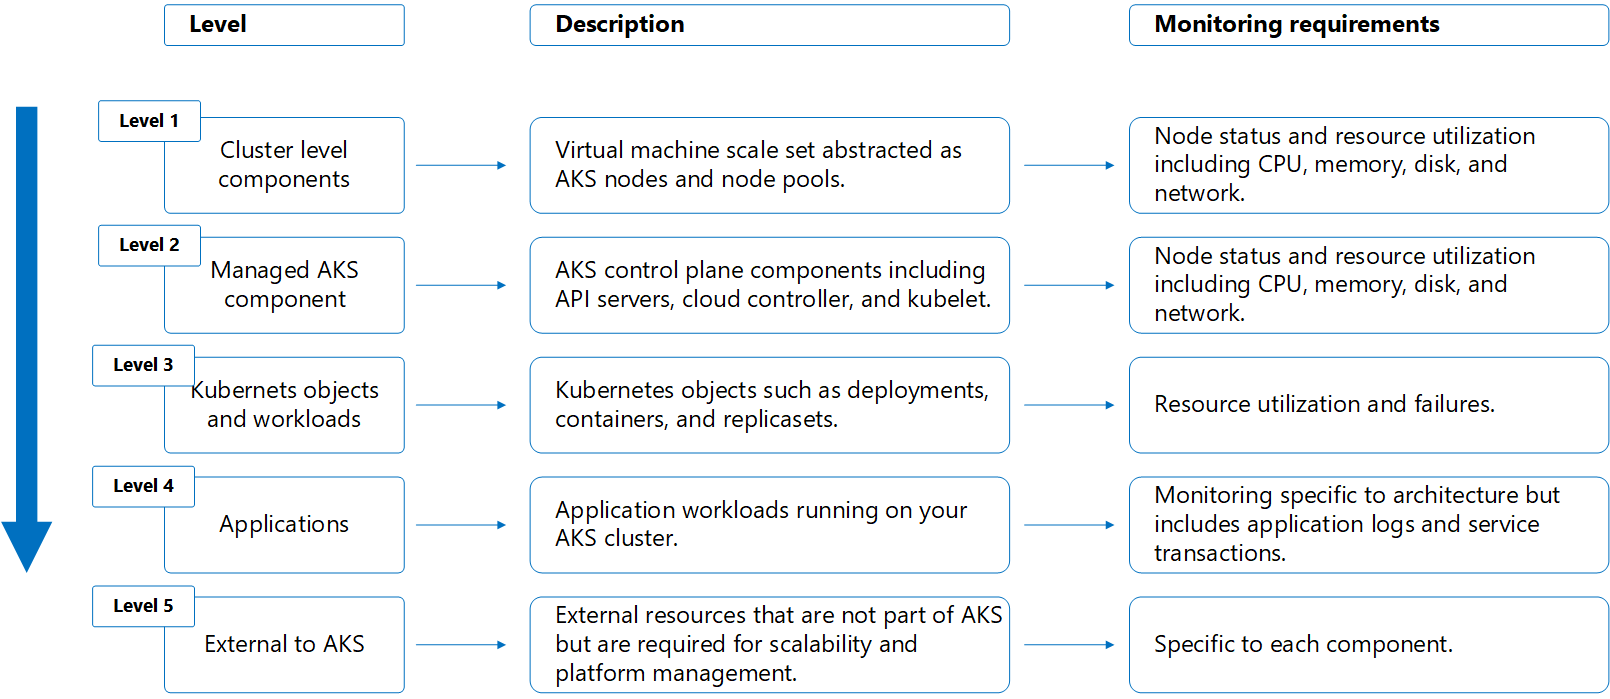
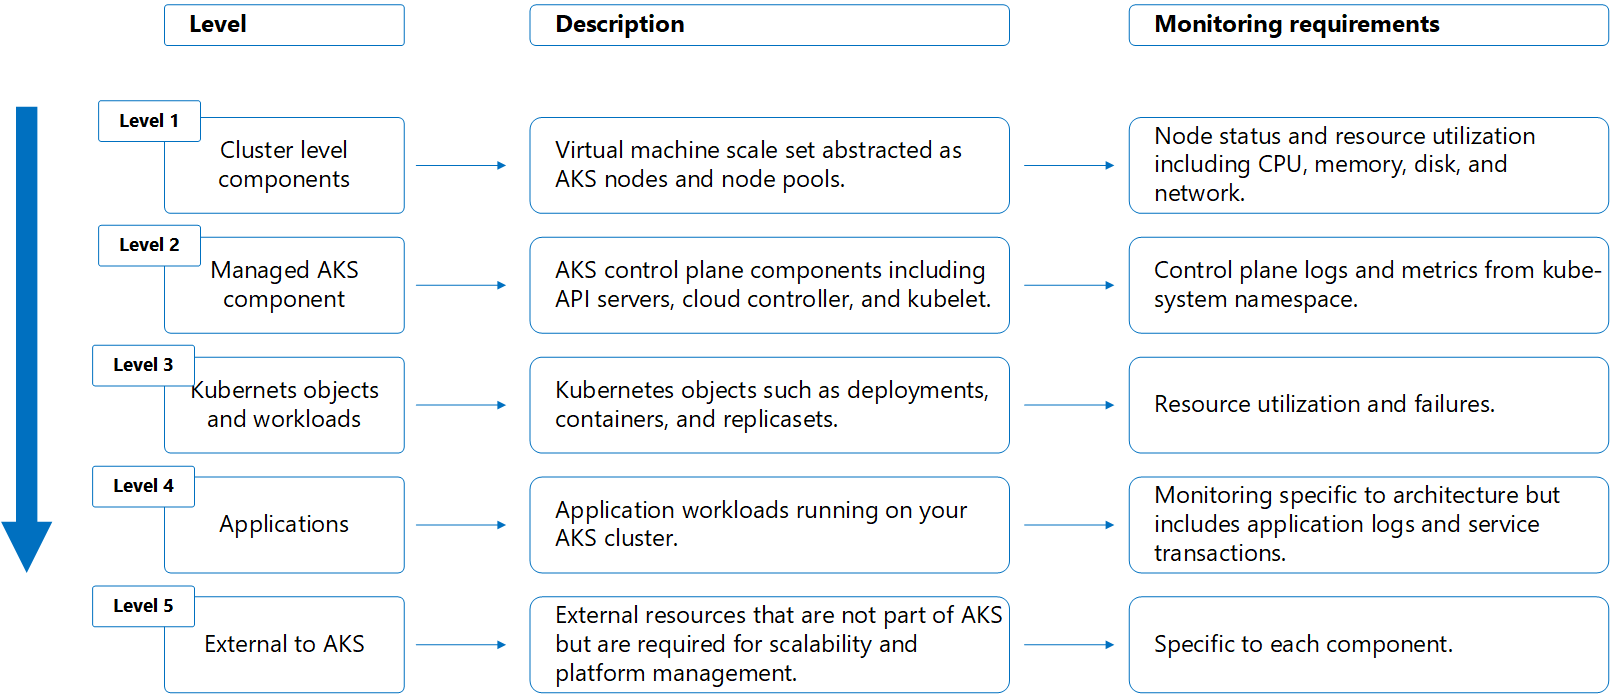
updates

diff --git a/articles/aks/monitor-aks.md b/articles/aks/monitor-aks.md
@@ -118,6 +118,15 @@ Use **Node** workbooks in Container Insights to analyze disk capacity and IO in 
 
 For troubleshooting scenarios, you may need to access the AKS nodes directly for maintenance or immediate log collection. For security purposes, the AKS nodes aren't exposed to the internet but you can `kubectl debug` to SSH to the AKS nodes. See [Connect with SSH to Azure Kubernetes Service (AKS) cluster nodes for maintenance or troubleshooting](/ssh.md) for details on this process.
 
+### Resource logs
+[Resource logs](monitor-aks-reference.md#resource-logs) that you can analyze at this level include the following:
+
+- cluster-autoscale
+- guard
+- kube-audit 
+- kube-audit-admin
+- kube-scheduler  
+
 ### Level 2 - Managed AKS components
 Managed AKS level includes the following components.
 
@@ -126,7 +135,7 @@ Managed AKS level includes the following components.
 | API Server | Monitor the status of API server, identifying any increase in request load and bottlenecks if the service is down. |
 | Kubelet | Monitoring Kubelet helps in troubleshooting of pod management issues, pods not starting, nodes not ready or pods getting killed.  |
 
-Azure Monitor and container insights don't yet provide full monitoring for the API server. You can use metrics explorer to view the **Inflight Requests** counter, but you should refer to metrics in Prometheus for a complete view of API Server performance. This includes such values as request latency and workqueue processing time. A Grafana dashboard that provides views of the critical metrics for the API server is available at [Grafana Labs](https://grafana.com/grafana/dashboards/12006). Use this dashboard on your existing Grafana server or setup a new Grafana server in Azure using [Monitor your Azure services in Grafana](../visualize/grafana-plugin.md)
+Azure Monitor and container insights don't yet provide full monitoring for the API server. You can use metrics explorer to view the **Inflight Requests** counter, but you should refer to metrics in Prometheus for a complete view of API Server performance. This includes such values as request latency and workqueue processing time. A Grafana dashboard that provides views of the critical metrics for the API server is available at [Grafana Labs](https://grafana.com/grafana/dashboards/12006). Use this dashboard on your existing Grafana server or setup a new Grafana server in Azure using [Monitor your Azure services in Grafana](../../azure-monitor/visualize/grafana-plugin.md)
 
 :::image type="content" source="media/monitor-aks/grafana-api-server.png" alt-text="Grafana API server" lightbox="media/monitor-aks/grafana-api-server.png":::
 
@@ -134,7 +143,11 @@ Use the **Kubelet** workbook to view the health and performance of each kubelet.
 
 :::image type="content" source="media/monitor-aks/container-insights-kubelet-workbook.png" alt-text="Container insights kubelet workbook" lightbox="media/monitor-aks/container-insights-kubelet-workbook.png":::
 
+### Resource logs
+[Resource logs](monitor-aks-reference.md#resource-logs) that you can analyze at this level include the following:
 
+- kube-apiserver
+- kube-controller-manager
 
 ### Level 3 - Kubernetes objects and workloads
 Kubernetes objects and workloads level include the following components.
@@ -226,6 +239,7 @@ The most common types of alert rules in Azure Monitor are [metric alerts](../azu
 
 It's typically the best strategy to use metric alerts instead of log alerts when possible since they're more responsive and stateful. You can create a metric alert on any values you can analyze in metrics explorer. If the logic for your alert rule requires data in Logs, or if it requires more complex logic, then you can use a log query alert rule.
 
+For example, if you want to alert when an application workload is consuming excessive CPU then you can create a metric alert using the CPU metric. If you need an alert when a particular message is found in a control plane log, then you'll require a log alert.
 ### Metric alert rules
 Metric alert rules use the same metric values as metrics explorer. In fact, you can create an alert rule directly from metrics explorer with the data you're currently analyzing. You can use any of the values in [AKS data reference metrics](monitor-aks-reference.md#metrics) for metric alert rules.
 
@@ -235,6 +249,8 @@ Container insights includes a feature in public preview that creates a recommend
 ### Log alerts rules
 Use log alert rules to generate an alert from the results of a log query. This may be data collected by Container insights or from AKS resource logs. See [How to create log alerts from Container insights](../azure-monitor/containers/container-insights-log-alerts.md) for details on log alert rules for AKS and  a set of sample queries designed for alert rules. You can also refer to [How to query logs from Container insights](../azure-monitor/containers/container-insights-log-query.md) for details on log queries that could be modified for alert rules.
 
+### Virtual machine alerts
+AKS relies on a virtual machine scale set that must be healthy to run AKS workloads. You can alert on critical metrics such as CPU, memory, and storage for the virtual machines using the guidance at [Monitor virtual machines with Azure Monitor: Alerts](../vm/monitor-virtual-machine-alerts.md).
 
 ### Prometheus alerts
 For those conditions where Azure Monitor either doesn't have the data required for an alerting condition, or where the alerting may not be responsive enough, you should configure alerts in Prometheus. One example is alerting for the API server. Azure Monitor doesn't collect critical information for the API server including whether it's available or experiencing a bottleneck. You can create a log query alert using the data from the kube-apiserver resource log category, but this can take up to several minutes before you receive an alert which may not be sufficient for your requirements. 

diff --git a/articles/aks/monitor-aks-reference.md b/articles/aks/monitor-aks-reference.md
@@ -56,7 +56,7 @@ For reference, see a list of [all resource logs category types supported in Azur
 | guard                   | Managed Azure Active Directory and Azure RBAC audits. For managed Azure AD, this includes token in and user info out. For Azure RBAC, this includes access reviews in and out. |
 | kube-apiserver          | Logs from the API server. |
 | kube-audit              | Audit log data for every audit event including get, list, create, update, delete, patch, and post. |
-| kube-audit-admin        | Subset of the kube-audit log category. Significanly reduces the number of logs by excluding the get and list audit events from the log. |
+| kube-audit-admin        | Subset of the kube-audit log category. Significantly reduces the number of logs by excluding the get and list audit events from the log. |
 | kube-controller-manager | Gain deeper visibility of issues that may arise between Kubernetes and the Azure control plane. A typical example is the AKS cluster having a lack of permissions to interact with Azure. |
 | kube-scheduler          | Logs from the scheduler. |
 | AllMetrics              | Includes all platform metrics. Sends these values to Log Analytics workspace where it can be evaluated with other data using log queries. |
